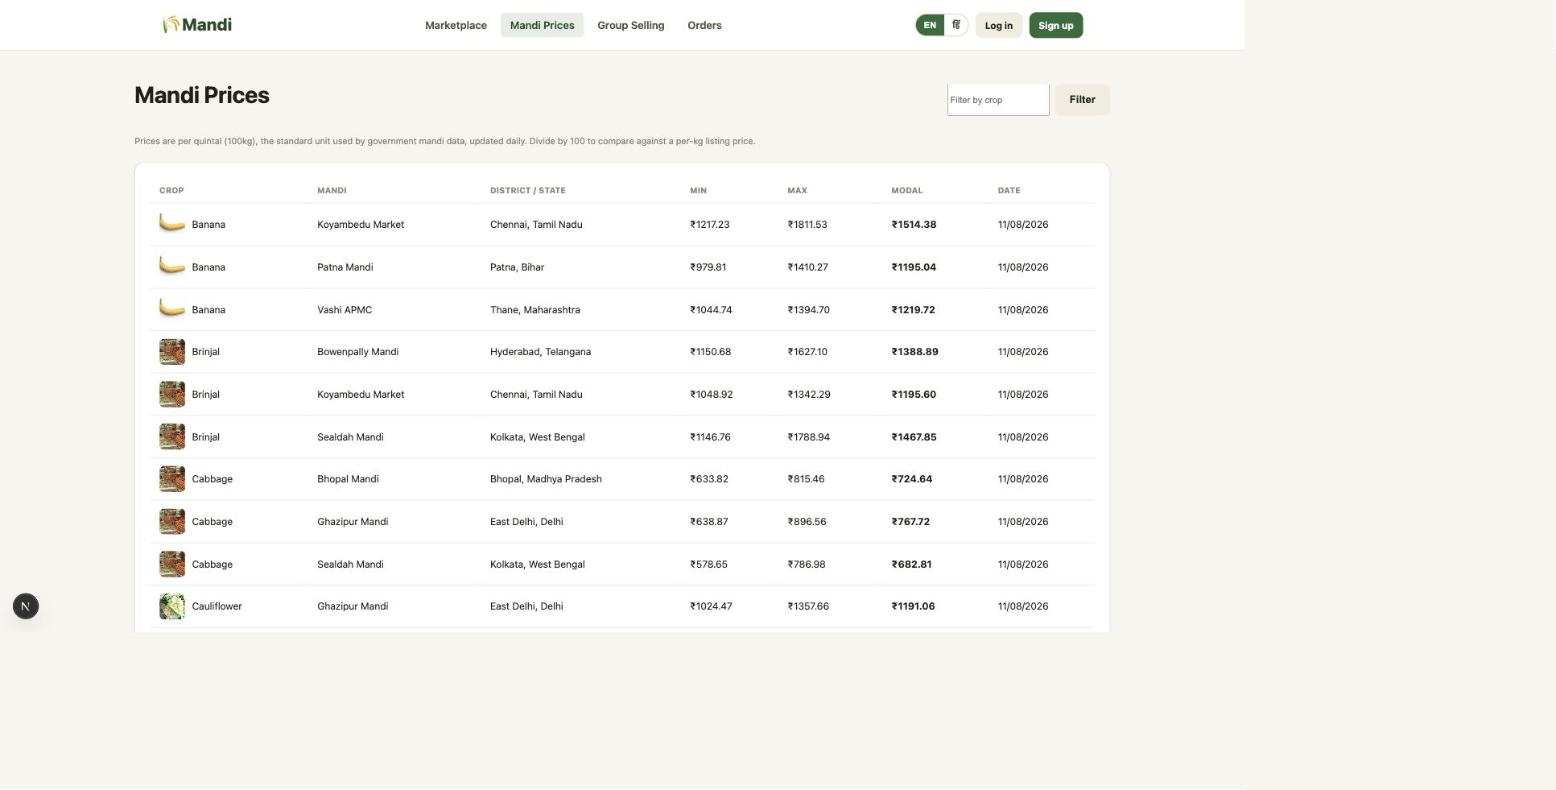
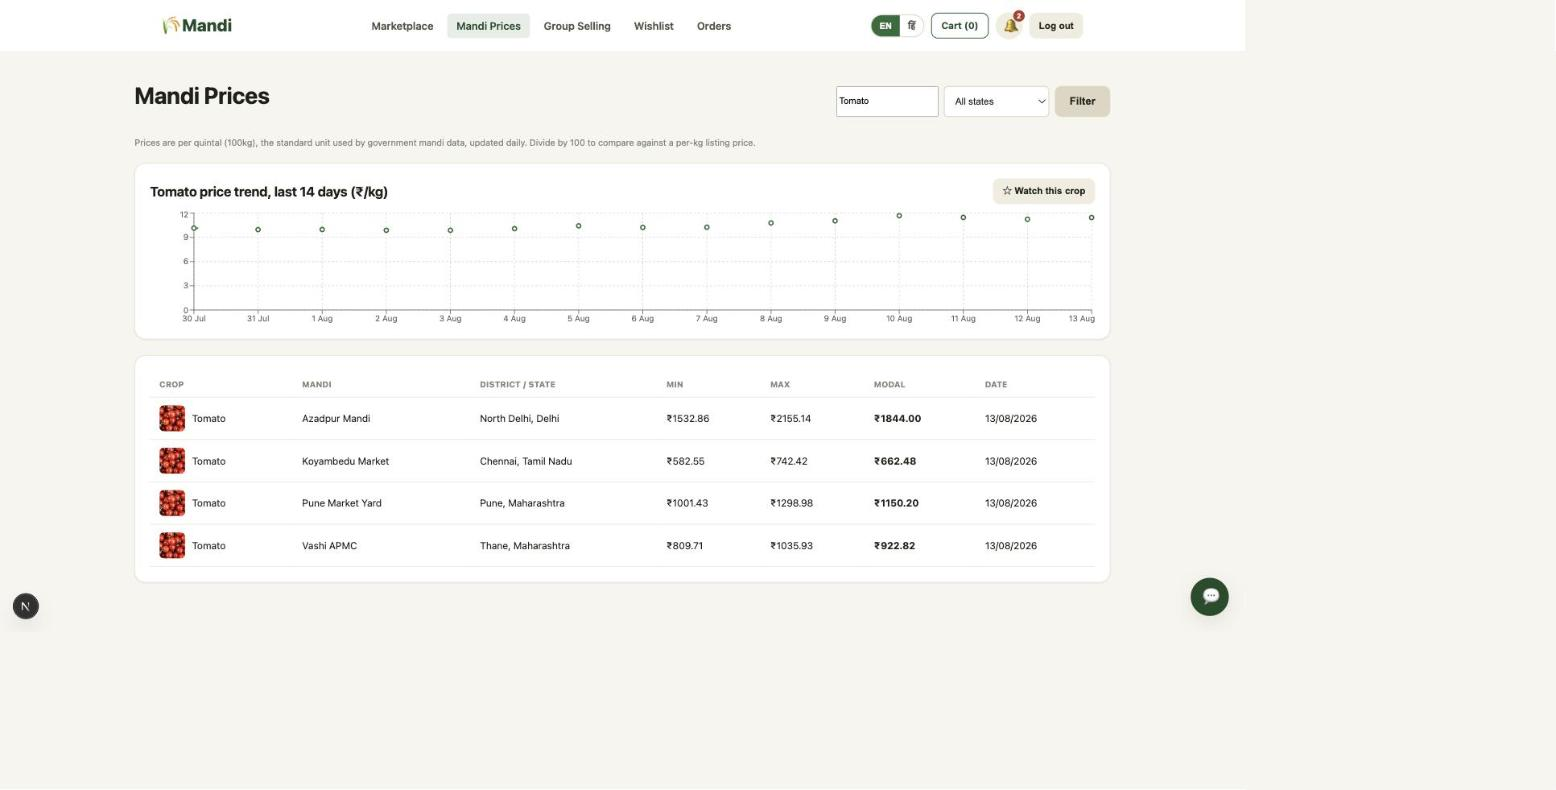
Document every feature in README, add 6 more screenshots
README now has a complete feature inventory: a new 'Core marketplace'
section for what was previously only implicit in the intro paragraph
(direct listings, mandi price board, pools, escrow orders, EN/HI
toggle, the landing page marquees, crop photography), on top of the
already-documented trust/notifications/discovery/farmer-tools sections
and the 15-agent Mandi Assistant.

Screenshots: refreshed marketplace.jpg (wishlist hearts, ratings,
Verified badges) and mandi-prices.jpg (14-day trend chart, watch
button) to reflect features added after they were first captured; new
screenshots for Group Selling, Wishlist, Orders (status filters + buy
again), farmer public profile, the notification dropdown, and the
Mandi Assistant chat widget mid-conversation.

diff --git a/README.md b/README.md
@@ -15,14 +15,35 @@ mandi average.
 | | |
 |---|---|
 | ![Landing page](./docs/screenshots/home.jpg) | ![Marketplace](./docs/screenshots/marketplace.jpg) |
-| Landing page — multi-language slogan strip and a live mandi price ticker | Marketplace — direct listings with photos, no commission layer |
+| Landing page — multi-language slogan strip and a live mandi price ticker | Marketplace — listings with wishlist hearts, farmer ratings, and Verified badges |
 | ![Mandi price board](./docs/screenshots/mandi-prices.jpg) | ![Farmer dashboard](./docs/screenshots/dashboard.jpg) |
-| Mandi price board — min/max/modal price per crop, per mandi | Farmer dashboard — your price vs. that day's mandi average |
+| Mandi price board — 14-day trend chart plus a "Watch this crop" price alert | Farmer dashboard — your price vs. that day's mandi average, CSV export |
+| ![Group Selling](./docs/screenshots/pools.jpg) | ![Wishlist](./docs/screenshots/wishlist.jpg) |
+| Group Selling — farmers pooling a crop toward a bulk buyer's minimum order | Wishlist — save a listing to buy later, persists across devices |
+| ![Orders](./docs/screenshots/orders.jpg) | ![Farmer public profile](./docs/screenshots/farmer-profile.jpg) |
+| Orders — status filters, live tracking timeline, one-click "Buy again" | Farmer public profile — rating, verified status, reviews, active listings |
+| ![Notifications](./docs/screenshots/notifications.jpg) | ![Mandi Assistant](./docs/screenshots/assistant.jpg) |
+| In-app notifications — pushed live over the existing Socket.IO connection | Mandi Assistant — the 15-agent LangGraph chat widget, shown here in no-LLM fallback mode |
 
 ## Features
 
-Beyond the core listing/order flow, these address specific gaps from the problem
-statement:
+**Core marketplace**
+- **Direct listings** — farmer posts crop, quantity, price/kg, quality grade, and photo;
+  buyers order directly, no commission layer between the two prices shown.
+- **Mandi price board** — daily min/max/modal price per crop, per mandi, seeded in the
+  same shape as the government's real Agmarknet dataset so a live feed is a drop-in swap
+  (`npm run fetch-prices`, with or without a real `AGMARKNET_API_KEY`).
+- **Group Selling (pools)** — several farmers combine listings of the same crop in the
+  same mandi zone into one lot that meets a bulk buyer's minimum order.
+- **Cart, checkout, and escrow-style orders** — a buyer's payment is held until they
+  confirm delivery; the order pipeline (`pending → confirmed → picked up → delivered →
+  paid_out`) is tracked live over Socket.IO on both sides.
+- **English/Hindi toggle**, plus a decorative multi-language slogan marquee (8 Indian
+  languages) and a live mandi-price ticker on the landing page.
+- **Curated crop photography** everywhere a listing shows up, with a graceful emoji
+  fallback if an image ever fails to load.
+
+Beyond that core flow, these address specific gaps from the problem statement:
 
 **Trust, since there's no commission agent to vouch for anyone anymore**
 - **Ratings** — buyers rate farmers 1–5 stars after delivery; the average shows on every
